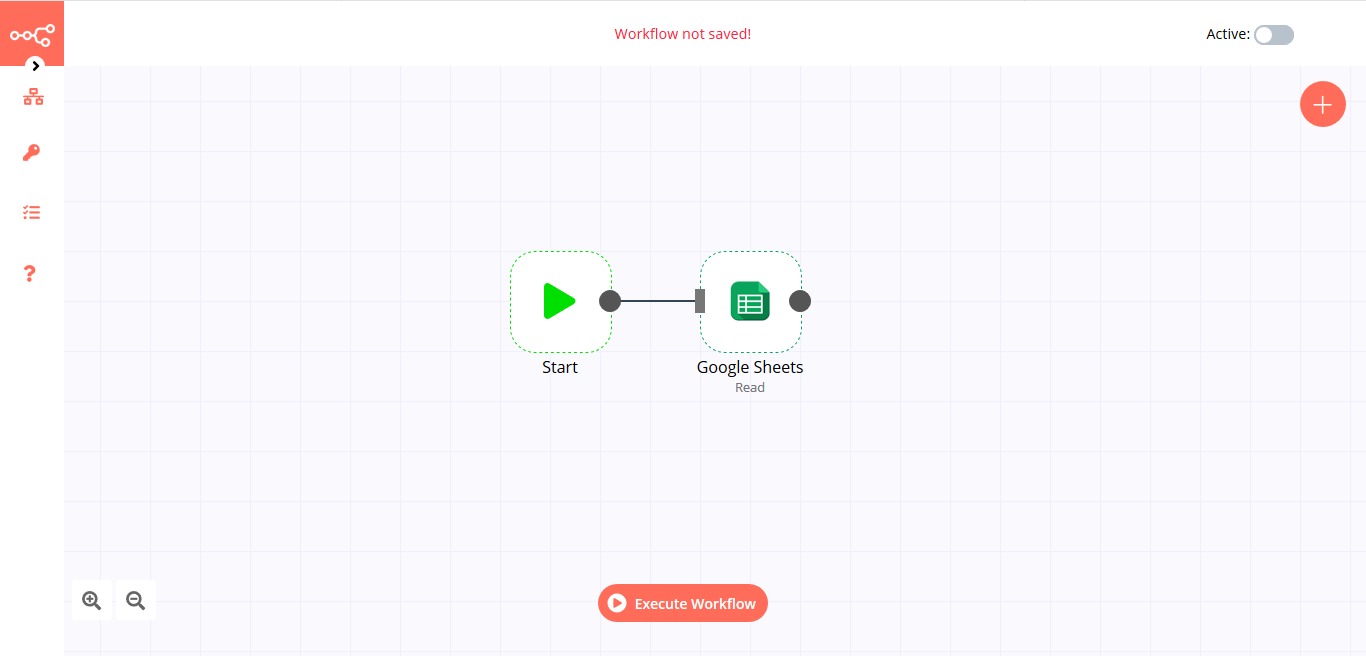
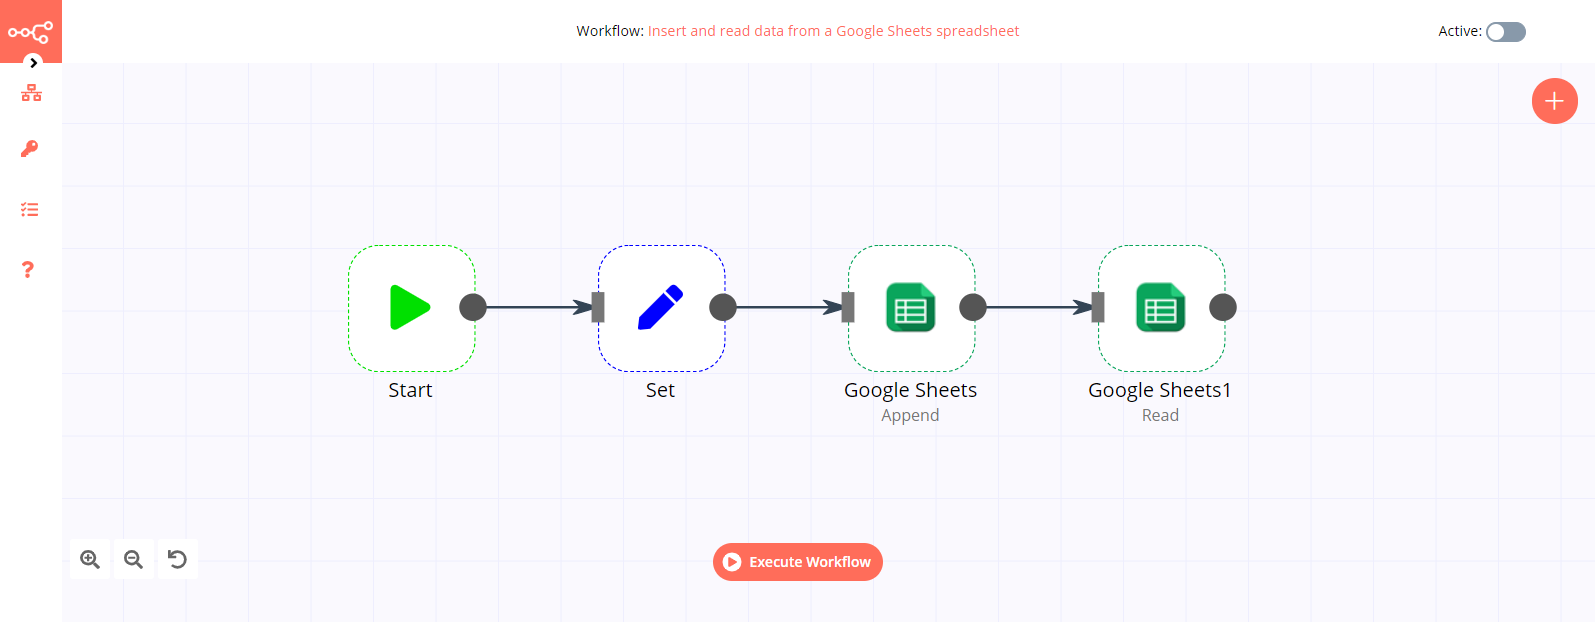
:zap: Enhanced Google Sheets docs

diff --git a/docs/nodes/nodes-library/nodes/GoogleSheets/README.md b/docs/nodes/nodes-library/nodes/GoogleSheets/README.md
@@ -21,8 +21,9 @@ You can find authentication information for this node [here](../../../credential
 
 ## Example Usage
 
-This workflow shows you how to read from from a Google Sheets spreadsheet. You can also find the [workflow](https://n8n.io/workflows/449) on this website. This example usage workflow uses the following two nodes.
+This workflow shows you how to add and read from from a Google Sheets spreadsheet. You can also find the [workflow](https://n8n.io/workflows/600) on this website. This example usage workflow uses the following three nodes.
 - [Start](../../core-nodes/Start/README.md)
+- [Set](../../core-nodes/Set/README.md)
 - [Google Sheets]()
 
 The final workflow should look like the following image.
@@ -33,12 +34,36 @@ The final workflow should look like the following image.
 
 The Start node exists by default when you create a new workflow.
 
-### 2. Google Sheets node
+### 2. Set node
+
+1. Click on the ***Add Value*** button and select 'Number' from the dropdown list.
+2. Enter `Number` in the ***Name*** field.
+3. Click on the ***Add Value*** button and select 'String' from the dropdown list.
+4. Enter `Text` in the ***Name*** field.
+5. Enter the value for the name in the ***Value*** field.
+6. Click on ***Execute Node*** to run the node.
+
+![Using the Set node to set data to be inserted by the Google Sheets node](./Set_node.png)
+
+### 3. Google Sheets node (Append)
 
 1. First of all, you'll have to enter credentials for the Google Sheets node. You can find out how to do that [here](../../../credentials/Google/README.md), in the section 'Google Drive / Sheets API'.
-2. Select 'OAuth2' in the *Authentication* field.
-3. Copy the string of characters located between `/d/` and `/edit` in your spreadsheet URL. Paste that string in the *Sheet ID* field.
-4. In the *Range* field, enter the range of columns to be read from your spreadsheet.
-5. In the *Data Start Row* field, enter the number of the first row that contains data, excluding the header row. Keep in mind that it starts with 0. So, in case your data starts from row 2, you'd enter 1 in the field.
-6. In the *Key Row* field, enter the number of the header row. Keep in mind that it starts with 0. So, in case your header is in row 1, you'd enter 0 in the field.
-7. Click on *Execute Node* to run the workflow.
+2. Select 'OAuth2' in the ***Authentication*** field.
+3. Select 'Append' from the ***Operation*** dropdown list.
+4. Copy the string of characters located between `/d/` and `/edit` in your spreadsheet URL. Paste that string in the ***Sheet ID*** field.
+5. In the ***Range*** field, enter the range of columns to append the data to in your spreadsheet. Make sure that your range includes enough columns for all the data included in the Set node.
+6. Enter `id` in cell A1 and `name` in cell B1 of the spreadsheet.
+7. Click on ***Execute Node*** to run the workflow.
+
+![Using the Google Sheets node to insert data into a Google Sheets spreadsheet](./GoogleSheets_node.png)
+
+### 4. Google Sheets node (Read)
+
+1. Select the credentials that you entered in the previous Google Sheets node.
+2. Select 'OAuth2' in the ***Authentication*** field.
+3. Select 'Read' from the ***Operation*** dropdown list.
+4. In the ***Sheet ID*** field, enter the same string used in the previous Google Sheets node.
+5. In the ***Range*** field, enter the same range used in the previous Google Sheets node.
+6. Click on ***Execute Node*** to run the workflow.
+
+![Using the Google Sheets node to read data from a Google Sheets spreadsheet](./GoogleSheets1_node.png)
